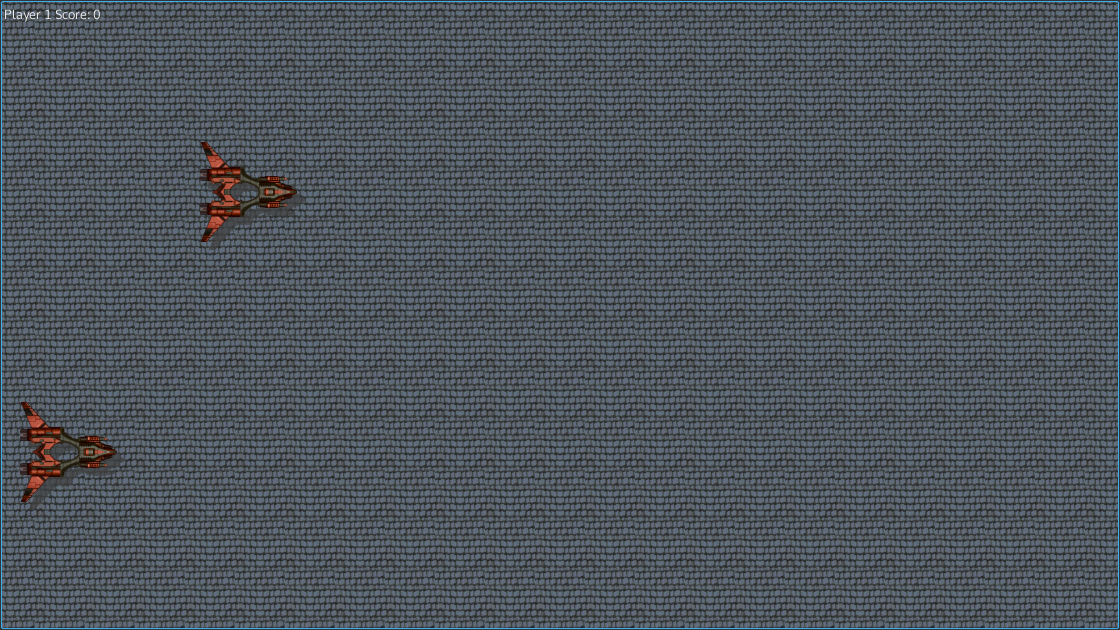
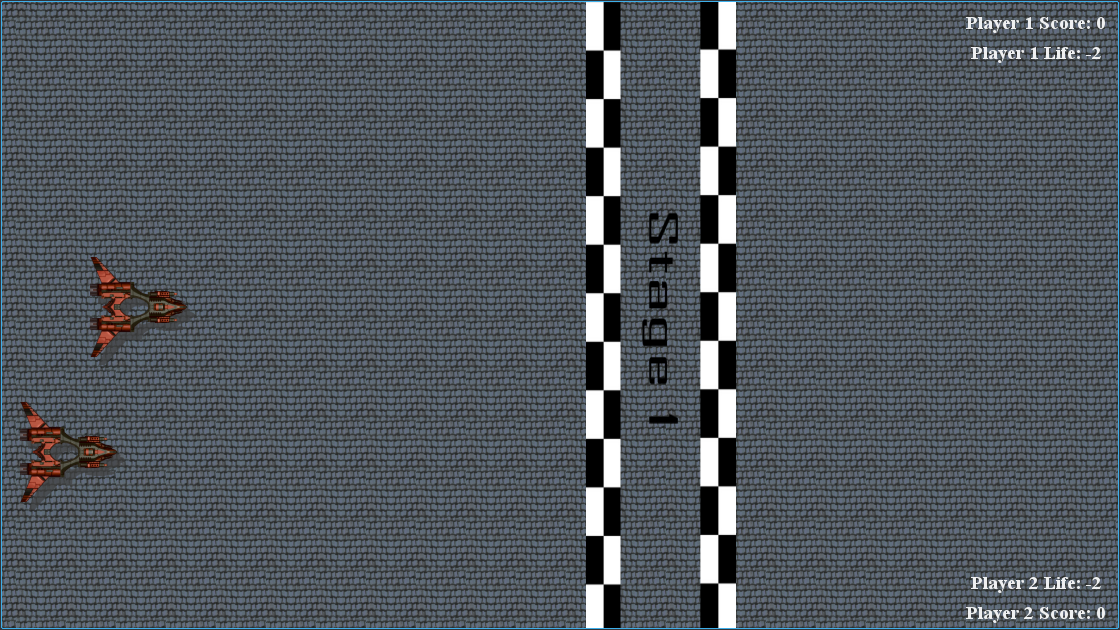
Project Update

diff --git a/Sources/Source Files/Widgets/MyGame.cpp b/Sources/Source Files/Widgets/MyGame.cpp
@@ -28,38 +28,23 @@ MyGame::MyGame(QWidget *parent) :
 	MyShip *tmp = new MyShip(QPixmap(MyRes::shp_adds[SettingData::uShp]), new QString("1"));
 	gscn->addItem(tmp);
 	gscn->addItem(tmp->shpshld);
+	tmp->scr_txt->setPos(size().width() - tmp->scr_txt->boundingRect().width() - 10, 5);
+	tmp->lf_txt->setPos(size().width() - tmp->lf_txt->boundingRect().width() - 10,
+	                    5 + tmp->scr_txt->boundingRect().height());
 	gscn->addItem(tmp->scr_txt);
-	tmp->scr_txt->setPos(0, 0);
+	gscn->addItem(tmp->lf_txt);
 
 	tmp = new MyShip(QPixmap(MyRes::shp_adds[SettingData::uShp]), new QString("2"));
 	tmp->setPos(20, 400);
 	gscn->addItem(tmp);
 	gscn->addItem(tmp->shpshld);
-
-//	tmp7 = new MyExplosion();
-//	tmp7->setPos(300, 50);
-//	gscn->addItem(tmp7);
-//
-//	tmp1 = new MyAlien();
-//	tmp1->setPos(1500, 50);
-//	gscn->addItem(tmp1);
-//
-//	tmp2 = new MyAsteroid();
-//	tmp2->setPos(1000, 400);
-//	gscn->addItem(tmp2);
-//
-//
-//	tmp2 = new MyAsteroid();
-//	tmp2->setPos(1000, 50);
-//	gscn->addItem(tmp2);
-//
-//	tmp6 = new MyStar();
-//	tmp6->setPos(200, 100);
-//	gscn->addItem(tmp6);
-//
-//	tmp5 = new MyShield();
-//	tmp5->setPos(200, 50);
-//	gscn->addItem(tmp5);
+	tmp->scr_txt->setPos(size().width() - tmp->scr_txt->boundingRect().width() - 10,
+	                     size().height() - tmp->scr_txt->boundingRect().height() - 5);
+	tmp->lf_txt->setPos(size().width() - tmp->lf_txt->boundingRect().width() - 10,
+	                    size().height() - tmp->scr_txt->boundingRect().height() - tmp->lf_txt->boundingRect().height() -
+	                    5);
+	gscn->addItem(tmp->scr_txt);
+	gscn->addItem(tmp->lf_txt);
 
 	setScene(gscn);
 	setSceneRect(viewport()->frameGeometry());

diff --git a/Sources/Source Files/Game Objects/MyShip.cpp b/Sources/Source Files/Game Objects/MyShip.cpp
@@ -32,16 +32,20 @@ MyShip::MyShip(const QPixmap &pixmap, QString *name) :
 	lsr_tmr->start(MyRes::shp_lsrdly);
 
 	if (*MyShip::name == "1") {
-		scr_txt = new QGraphicsTextItem(SettingData::p1_nm + " Score: " + QString(scr));
+		scr_txt = new QGraphicsTextItem(SettingData::p1_nm + " Score: " + QString::number(scr));
+		scr_txt->setFont(QFont("Times", 14, QFont::Bold));
 	}
 	else {
-		scr_txt = new QGraphicsTextItem(SettingData::p2_nm + " Score: " + QString(scr));
+		scr_txt = new QGraphicsTextItem(SettingData::p2_nm + " Score: " + QString::number(scr));
+		scr_txt->setFont(QFont("Times", 14, QFont::Bold));
 	}
 	if (*MyShip::name == "1") {
-		lf_txt = new QGraphicsTextItem(SettingData::p1_nm + " Life: " + QString(lf));
+		lf_txt = new QGraphicsTextItem(SettingData::p1_nm + " Life: " + QString::number(lf));
+		lf_txt->setFont(QFont("Times", 14, QFont::Bold));
 	}
 	else {
-		lf_txt = new QGraphicsTextItem(SettingData::p2_nm + " Life: " + QString(lf));
+		lf_txt = new QGraphicsTextItem(SettingData::p2_nm + " Life: " + QString::number(lf));
+		lf_txt->setFont(QFont("Times", 14, QFont::Bold));
 	}
 
 	QTimer::connect(shld_tmr, SIGNAL(timeout()), this, SLOT(deactivate_shld()));
